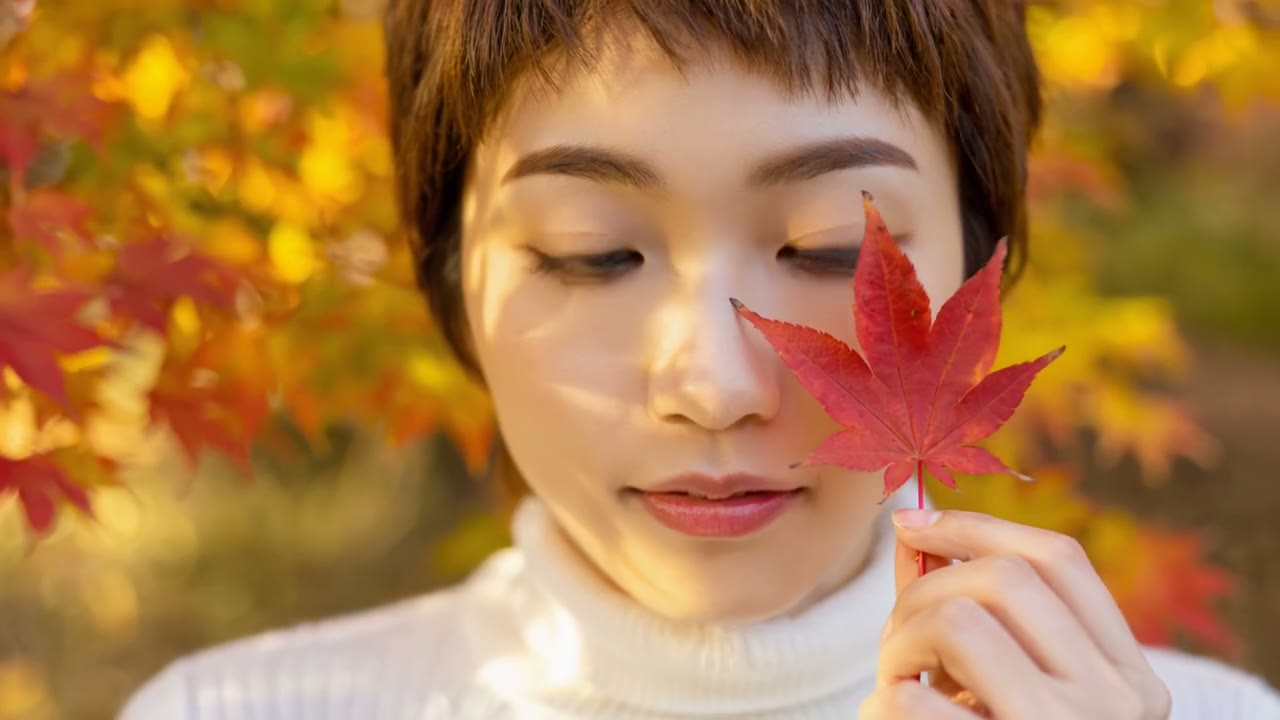
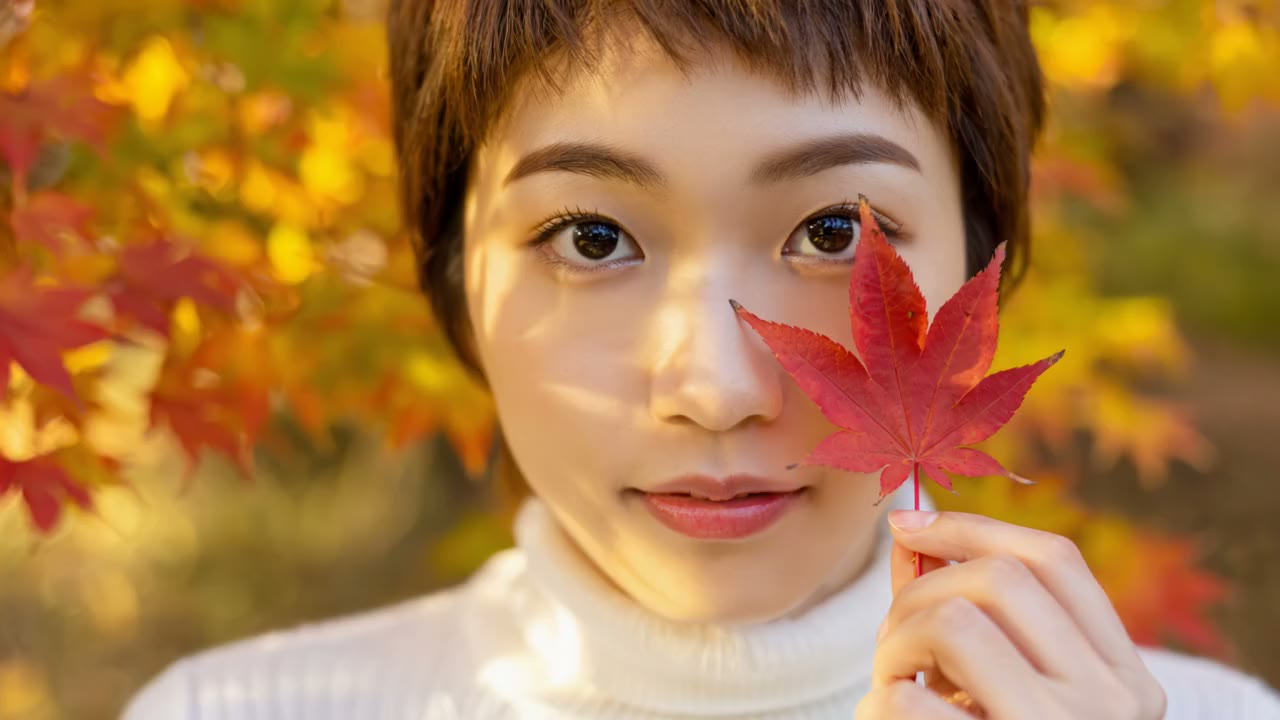
三つの扉「作品を観る」: 目を伏せたコマだった静止画を、ループの先頭(目を開けて正面)のコマに差し替え(実機 iPhone でユーザー指摘)。扉の本数は data から(16 → 18・繁中の訳も生成)

diff --git a/js/works_i18n.js b/js/works_i18n.js
@@ -1,2 +1,2 @@
 /* 生成物: node gen_works.mjs が data/works.json から書く(手で編集しない)。作品・番組の日本語→繁中。main.js / uc_i18n.js の辞書に合流する */
-window.MV_WORKS_I18N={"作品":"作品","前の作品":"上一支作品","次の作品":"下一支作品","すべての作品を見る（18本）→":"看全部作品（18 支）→","番組をすべて見る（7回）→":"看全部節目（7 集）→","作品一覧 — MV Studio":"全部作品 — MV Studio","WORKS — 作品（18本）":"WORKS — 作品（18 支）","SHOWS — 裏番組（7回）":"SHOWS — 幕後節目（7 集）","水鏡":"水鏡","RINKA × KANADE 夜の温室のMV ・":"RINKA × KANADE 夜晚溫室的MV ・","いつもの顔":"平常的臉","棚の写真が動き出す四季のMV ・":"架上照片動起來的四季MV ・","九月のピアノ":"九月的鋼琴","KANADE 海辺の古い家のピアノMV ・":"KANADE 海邊老房子的鋼琴MV ・","黒い月":"黑月","KANADE 夜明け前の港MV ・":"KANADE 黎明前的港口MV ・","白い帆":"白帆","RINKA 嵐の花嫁MV ・":"RINKA 暴風雨中的新娘MV ・","ほどけちゃえ":"解開吧","RINKA × KANADE 冬のダンスMV ・":"RINKA × KANADE 冬日舞蹈MV ・","重力 GRAVITY":"重力 GRAVITY","KANADE × RINKA ダンスMV ・":"KANADE × RINKA 舞蹈MV ・","ぴょんぴょんハート":"蹦蹦心動","KANADE × RINKA ライブMV ・":"KANADE × RINKA 現場演出MV ・","隅田川の花火":"隅田川的煙火","KANADE デビューMV ・":"KANADE 出道MV ・","海煙":"海煙","朝の海のMV ・":"晨海的MV ・","まぶしい方へ":"往最亮的那邊","海のMV ・":"海的MV ・","未明":"未明","夜明けのMV ・":"黎明MV ・","軽音部、最後の放課後":"輕音部，最後的放學後","バンドMV ・":"樂團MV ・","泡沫の夏":"泡沫之夏","サマーMV ・":"夏日MV ・","雨の縁側":"雨的緣廊","和装MV ・":"和服MV ・","パステルルーム":"粉彩房間","ポップMV ・":"流行MV ・","約束":"約定","夏祭りのショートフィルム ・":"夏日祭典的短片 ・","暁の誓剣":"拂曉的誓劍","アクション短編 ・":"動作短片 ・","用途":"用途","仕組み":"運作方式","相談":"洽詢","日本語":"日語","すでに生まれた、":"已經誕生的，","一本たち":"那些作品","。":"。","夜明け前の街、夏の海のまぶしさ、軽音部の放課後、雨の剣戟、語りかける彼女——":"天亮前的街、夏日海邊的粼光、輕音部的放學後、雨中的劍戟、對你說話的她——","どれも、このスタジオの対話から実際に生まれた作品。":"每一支，都是在這間工作室聊出來的。","上映のあとも、":"放映結束後，","番組":"節目","は続く。":"仍在繼續。","完成した一本の裏には、山ほどの失敗と、やり直しの夜がある。":"每一支完成的作品背後，都有堆成山的失敗，跟一個一個重來的夜晚。","それを隠さずに、番組にした——作られた本人、RINKAが話す。":"這些我們沒有藏，直接做成了節目——由被做出來的那個人，RINKA自己來說。","裏番組はシリーズ連載中 — 続きは":"幕後節目連載中 — 更多內容請至","YouTubeチャンネル":"YouTube頻道","で。":"。","ホーム":"首頁","裏番組":"幕後節目","工場見学":"工廠參觀","この家から、データは出ない":"資料，不出這個家","MVを生む“工場”の中身。素材も、失敗も、完成した一本も——なぜ外に出ないのかを、案内役のRINKAが歩きながら説明する。":"生出MV的那座「工廠」裡面長什麼樣。素材、失敗、完成的那一支——為什麼都不會流到外面，由帶路的RINKA一邊走一邊說給你聽。","ラジオ":"廣播","RINKAのオフレコ #04":"RINKA的悄悄話 #04","重いものだけが、残った——『重力』の制作を、KANADEと順位をつけて振り返る。":"只有重的，留了下來——和 KANADE 一起排名次，回顧《重力》的製作。","RINKAのオフレコ #03":"RINKA的悄悄話 #03","跳ねていなかったのは、わたしじゃなかった——初ゲストのKANADEと、犯人捜しをする制作裏話。":"不會跳的，其實不是我——和第一位來賓 KANADE 一起，聊聊找出真兇的製作幕後。","RINKAのオフレコ #02":"RINKA的悄悄話 #02","データは出ないのに、わたしの失敗は出ていく——監督のいないところで話す、制作裏話。":"資料不出門，我的失誤卻天天出門——趁導演不在，聊聊製作的幕後。","解説":"解說","『約束』制作全記録":"《約定》製作全紀錄","697枚から選ばれた彼女が、ボツになった50本ぶんの失敗を自分で話す。":"從697張候選裡被選出來的她，自己講出那50支被丟掉的失敗。","AIが自分の作られ方を話す":"AI親自說自己是怎麼做出來的","6本のMVの舞台裏を、AI本人がまとめて解説する。":"六支MV的幕後，AI自己一次講完。","技術デモ":"技術示範","AIキャラが、自然に話す":"AI角色，自然地說話","口の動きも、間の取り方も。喋る映像がどこまで自然になるかを、手元のGPUだけで試した記録。":"嘴型、停頓，全都算在內。會說話的影像可以自然到什麼程度，只用手邊的顯卡跑出來的實測紀錄。"};
+window.MV_WORKS_I18N={"作品":"作品","前の作品":"上一支作品","次の作品":"下一支作品","すべての作品を見る（18本）→":"看全部作品（18 支）→","すでに生まれた 18 本":"已經誕生的 18 支","番組をすべて見る（7回）→":"看全部節目（7 集）→","作品一覧 — MV Studio":"全部作品 — MV Studio","WORKS — 作品（18本）":"WORKS — 作品（18 支）","SHOWS — 裏番組（7回）":"SHOWS — 幕後節目（7 集）","水鏡":"水鏡","RINKA × KANADE 夜の温室のMV ・":"RINKA × KANADE 夜晚溫室的MV ・","いつもの顔":"平常的臉","棚の写真が動き出す四季のMV ・":"架上照片動起來的四季MV ・","九月のピアノ":"九月的鋼琴","KANADE 海辺の古い家のピアノMV ・":"KANADE 海邊老房子的鋼琴MV ・","黒い月":"黑月","KANADE 夜明け前の港MV ・":"KANADE 黎明前的港口MV ・","白い帆":"白帆","RINKA 嵐の花嫁MV ・":"RINKA 暴風雨中的新娘MV ・","ほどけちゃえ":"解開吧","RINKA × KANADE 冬のダンスMV ・":"RINKA × KANADE 冬日舞蹈MV ・","重力 GRAVITY":"重力 GRAVITY","KANADE × RINKA ダンスMV ・":"KANADE × RINKA 舞蹈MV ・","ぴょんぴょんハート":"蹦蹦心動","KANADE × RINKA ライブMV ・":"KANADE × RINKA 現場演出MV ・","隅田川の花火":"隅田川的煙火","KANADE デビューMV ・":"KANADE 出道MV ・","海煙":"海煙","朝の海のMV ・":"晨海的MV ・","まぶしい方へ":"往最亮的那邊","海のMV ・":"海的MV ・","未明":"未明","夜明けのMV ・":"黎明MV ・","軽音部、最後の放課後":"輕音部，最後的放學後","バンドMV ・":"樂團MV ・","泡沫の夏":"泡沫之夏","サマーMV ・":"夏日MV ・","雨の縁側":"雨的緣廊","和装MV ・":"和服MV ・","パステルルーム":"粉彩房間","ポップMV ・":"流行MV ・","約束":"約定","夏祭りのショートフィルム ・":"夏日祭典的短片 ・","暁の誓剣":"拂曉的誓劍","アクション短編 ・":"動作短片 ・","用途":"用途","仕組み":"運作方式","相談":"洽詢","日本語":"日語","すでに生まれた、":"已經誕生的，","一本たち":"那些作品","。":"。","夜明け前の街、夏の海のまぶしさ、軽音部の放課後、雨の剣戟、語りかける彼女——":"天亮前的街、夏日海邊的粼光、輕音部的放學後、雨中的劍戟、對你說話的她——","どれも、このスタジオの対話から実際に生まれた作品。":"每一支，都是在這間工作室聊出來的。","上映のあとも、":"放映結束後，","番組":"節目","は続く。":"仍在繼續。","完成した一本の裏には、山ほどの失敗と、やり直しの夜がある。":"每一支完成的作品背後，都有堆成山的失敗，跟一個一個重來的夜晚。","それを隠さずに、番組にした——作られた本人、RINKAが話す。":"這些我們沒有藏，直接做成了節目——由被做出來的那個人，RINKA自己來說。","裏番組はシリーズ連載中 — 続きは":"幕後節目連載中 — 更多內容請至","YouTubeチャンネル":"YouTube頻道","で。":"。","ホーム":"首頁","裏番組":"幕後節目","工場見学":"工廠參觀","この家から、データは出ない":"資料，不出這個家","MVを生む“工場”の中身。素材も、失敗も、完成した一本も——なぜ外に出ないのかを、案内役のRINKAが歩きながら説明する。":"生出MV的那座「工廠」裡面長什麼樣。素材、失敗、完成的那一支——為什麼都不會流到外面，由帶路的RINKA一邊走一邊說給你聽。","ラジオ":"廣播","RINKAのオフレコ #04":"RINKA的悄悄話 #04","重いものだけが、残った——『重力』の制作を、KANADEと順位をつけて振り返る。":"只有重的，留了下來——和 KANADE 一起排名次，回顧《重力》的製作。","RINKAのオフレコ #03":"RINKA的悄悄話 #03","跳ねていなかったのは、わたしじゃなかった——初ゲストのKANADEと、犯人捜しをする制作裏話。":"不會跳的，其實不是我——和第一位來賓 KANADE 一起，聊聊找出真兇的製作幕後。","RINKAのオフレコ #02":"RINKA的悄悄話 #02","データは出ないのに、わたしの失敗は出ていく——監督のいないところで話す、制作裏話。":"資料不出門，我的失誤卻天天出門——趁導演不在，聊聊製作的幕後。","解説":"解說","『約束』制作全記録":"《約定》製作全紀錄","697枚から選ばれた彼女が、ボツになった50本ぶんの失敗を自分で話す。":"從697張候選裡被選出來的她，自己講出那50支被丟掉的失敗。","AIが自分の作られ方を話す":"AI親自說自己是怎麼做出來的","6本のMVの舞台裏を、AI本人がまとめて解説する。":"六支MV的幕後，AI自己一次講完。","技術デモ":"技術示範","AIキャラが、自然に話す":"AI角色，自然地說話","口の動きも、間の取り方も。喋る映像がどこまで自然になるかを、手元のGPUだけで試した記録。":"嘴型、停頓，全都算在內。會說話的影像可以自然到什麼程度，只用手邊的顯卡跑出來的實測紀錄。"};

diff --git a/index.html b/index.html
@@ -186,10 +186,10 @@ var lang="ja";try{lang=localStorage.getItem("mvlang")||"ja"}catch(e){}add("base"
     <div class="panel-inner">
       <div class="doors-grid">
         <a class="door reveal" href="#works">
-          <img src="assets/wk_itsumo.jpg?v=20261012a" alt="" loading="lazy">
+          <img src="assets/wk_itsumo.jpg?v=20261013b" alt="" loading="lazy">
           <span class="dk">I</span>
           <strong>作品を観る</strong>
-          <em>すでに生まれた 16 本</em>
+          <em>すでに生まれた 18 本</em>
         </a>
         <a class="door reveal d1" href="usecases/">
           <img src="assets/uc/uc_bridal_B27.jpg?v=1012b" alt="" loading="lazy">
@@ -281,7 +281,7 @@ var lang="ja";try{lang=localStorage.getItem("mvlang")||"ja"}catch(e){}add("base"
           <span class="cf-cap"><strong>水鏡</strong><span>RINKA × KANADE 夜の温室のMV ・ <span class="nw">3分49秒</span></span></span>
         </a>
         <a class="cf-item" href="https://youtu.be/_uC-XiL0EuY" target="_blank" rel="noopener noreferrer" data-yt="_uC-XiL0EuY">
-          <span class="cf-cover"><img src="https://i.ytimg.com/vi/_uC-XiL0EuY/maxresdefault.jpg" onerror="this.onerror=null;this.src='assets/wk_itsumo.jpg?v=20261012a'" alt="" loading="lazy" decoding="async"><span class="yt-badge">YouTube</span></span>
+          <span class="cf-cover"><img src="https://i.ytimg.com/vi/_uC-XiL0EuY/maxresdefault.jpg" onerror="this.onerror=null;this.src='assets/wk_itsumo.jpg?v=20261013b'" alt="" loading="lazy" decoding="async"><span class="yt-badge">YouTube</span></span>
           <span class="cf-cap"><strong>いつもの顔</strong><span>棚の写真が動き出す四季のMV ・ <span class="nw">4分09秒</span></span></span>
         </a>
         <a class="cf-item" href="https://youtu.be/JjVQNUwyofo" target="_blank" rel="noopener noreferrer" data-yt="JjVQNUwyofo">

diff --git a/works.html b/works.html
@@ -56,7 +56,7 @@ var lang="ja";try{lang=localStorage.getItem("mvlang")||"ja"}catch(e){}add("base"
           <figcaption><strong>水鏡</strong><span>RINKA × KANADE 夜の温室のMV ・ <span class="nw">3分49秒</span></span></figcaption>
         </figure></a>
         <a class="worklink" href="https://youtu.be/_uC-XiL0EuY" target="_blank" rel="noopener noreferrer"><figure class="workcard">
-          <video src="assets/wk_itsumo.mp4?v=20261012a" poster="assets/wk_itsumo.jpg?v=20261012a" muted loop playsinline preload="none" autoplay></video>
+          <video src="assets/wk_itsumo.mp4?v=20261013b" poster="assets/wk_itsumo.jpg?v=20261013b" muted loop playsinline preload="none" autoplay></video>
           <span class="yt-badge">YouTube</span>
           <figcaption><strong>いつもの顔</strong><span>棚の写真が動き出す四季のMV ・ <span class="nw">4分09秒</span></span></figcaption>
         </figure></a>
